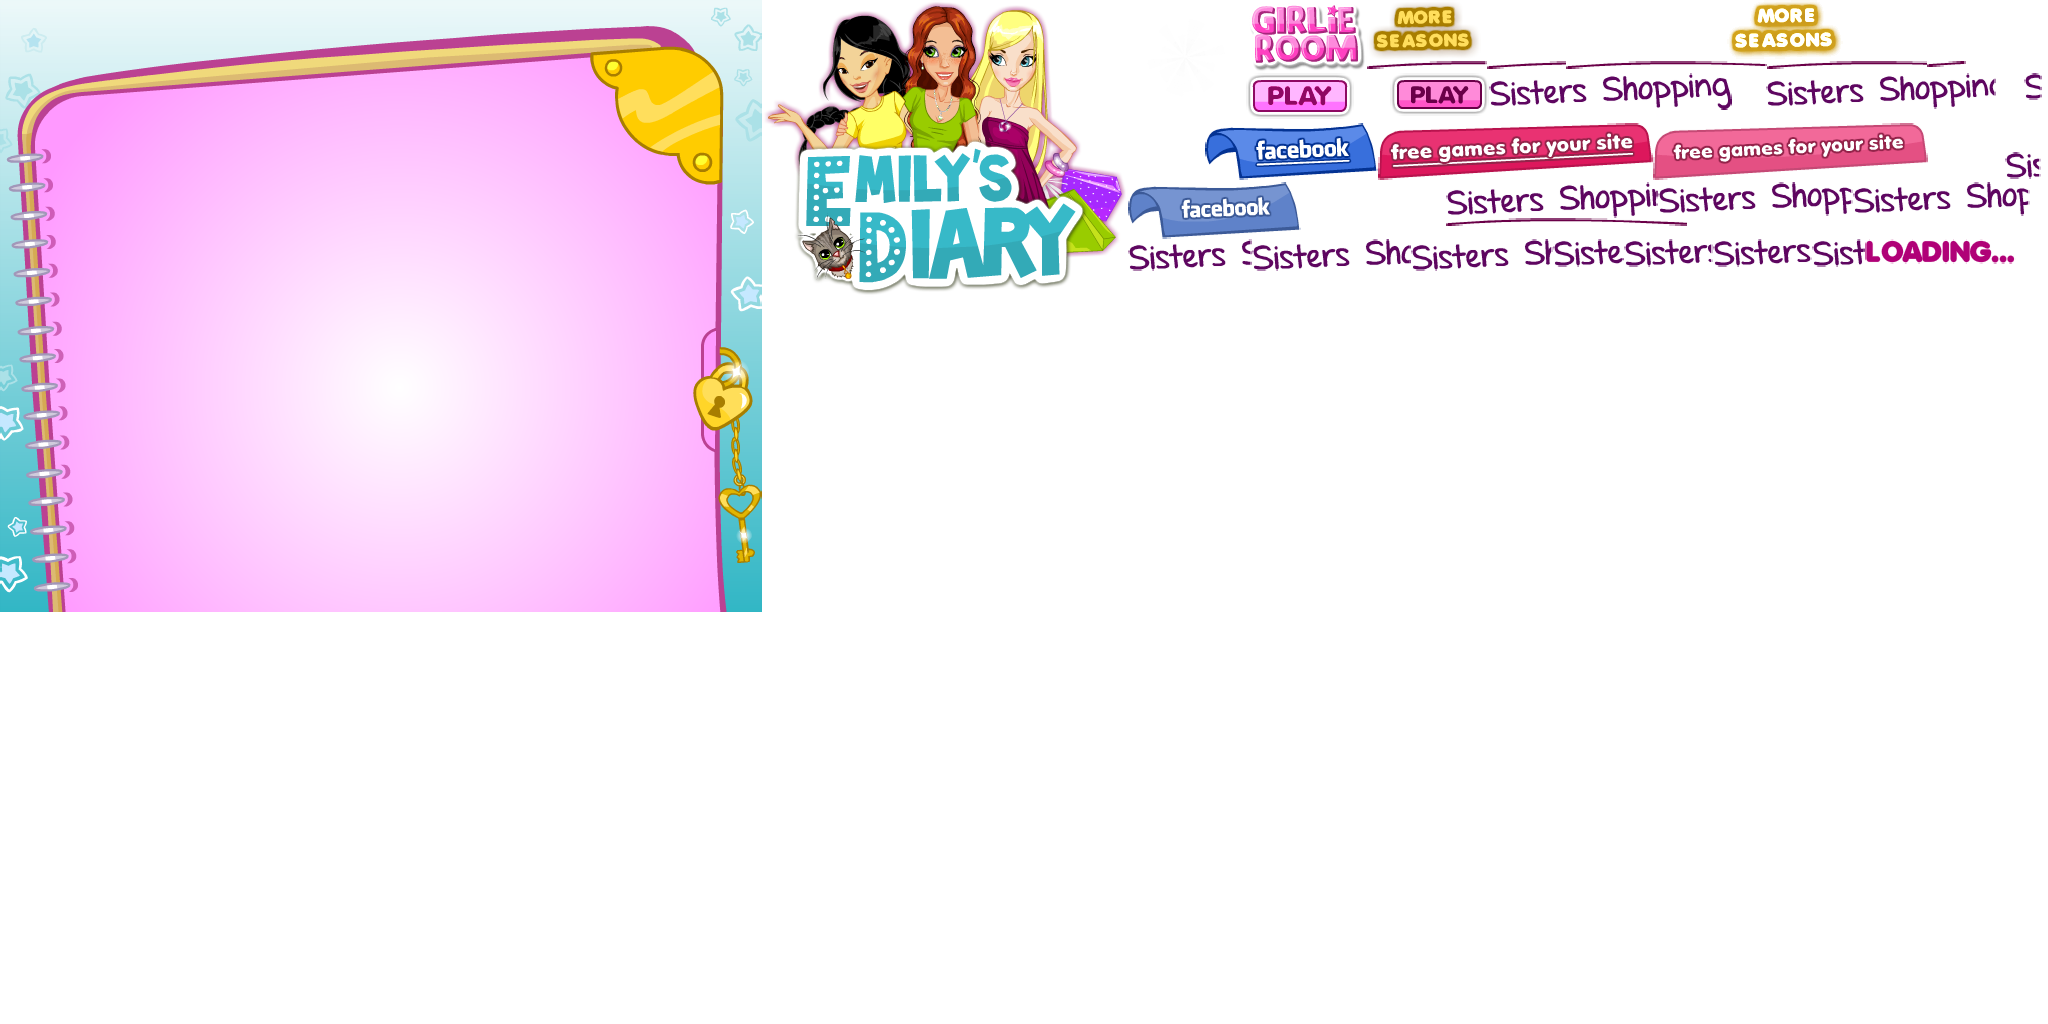
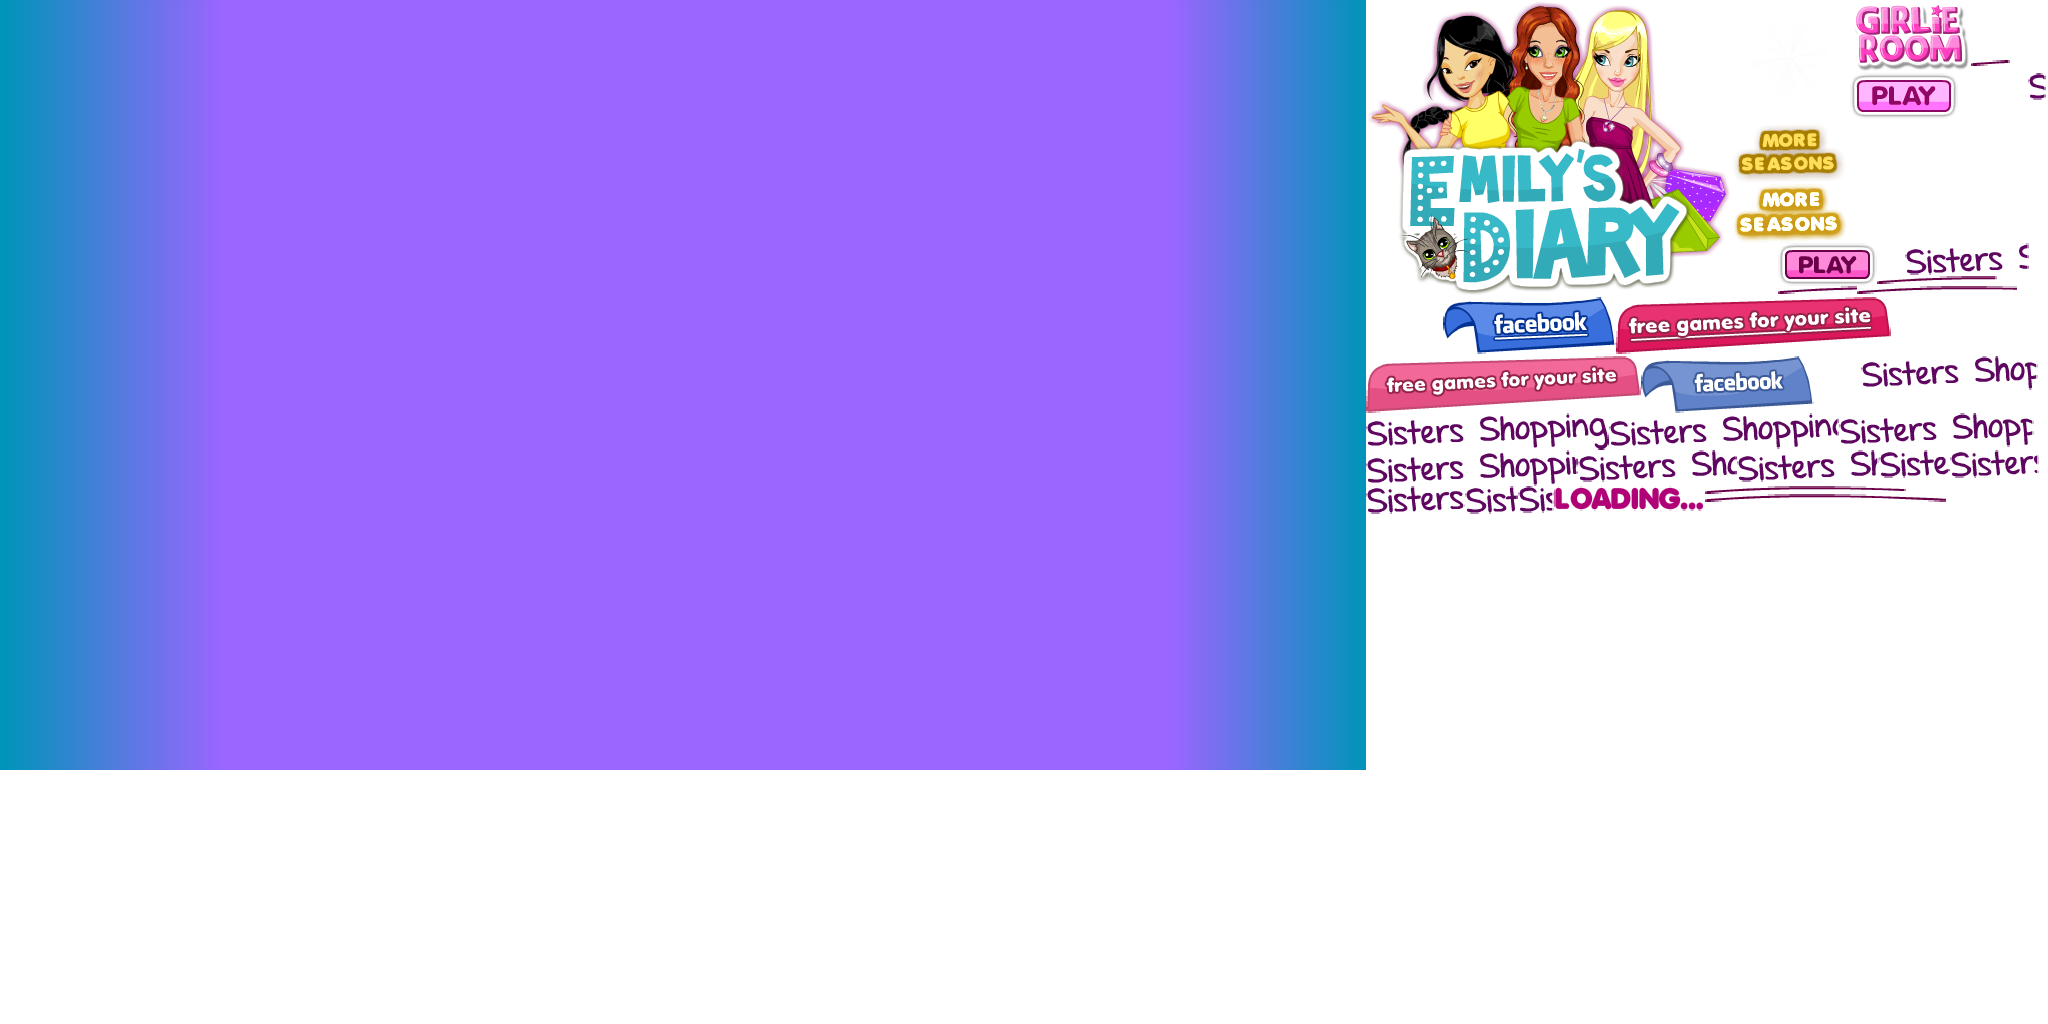
auto

diff --git a/hd/js/dressup.js b/hd/js/dressup.js
@@ -2,8 +2,7 @@
 var __extends = (this && this.__extends) || function (d, b) {
     for (var p in b) if (b.hasOwnProperty(p)) d[p] = b[p];
     function __() { this.constructor = d; }
-    __.prototype = b.prototype;
-    d.prototype = new __();
+    d.prototype = b === null ? Object.create(b) : (__.prototype = b.prototype, new __());
 };
 var fl;
 (function (fl) {
@@ -252,16 +251,17 @@ var fl;
         };
         Bundle.prototype.loadTextures = function () {
             this.textures = {};
-            for (var _i = 0, _a = this.rawData["textures"]; _i < _a.length; _i++) {
-                var textureName = _a[_i];
-                this.textures[textureName] = null;
+            var names = this.rawData["textures"];
+            for (var _i = 0; _i < names.length; _i++) {
+                var name = names[_i];
+                this.textures[name] = null;
             }
-            for (var _b = 0, _c = this.rawData["textures"]; _b < _c.length; _b++) {
-                var textureName = _c[_b];
-                var url = this.getUrl(textureName + Bundle.TEXTURE_EXT);
+            for (var _a = 0; _a < names.length; _a++) {
+                var name = names[_a];
+                var url = this.getUrl(name + Bundle.TEXTURE_EXT);
                 this.verboseLog('loading: ' + url);
                 var loader = new PIXI.ImageLoader(url);
-                loader.on('loaded', this.createTextureLoadedHandler(textureName, loader));
+                loader.on('loaded', this.createTextureLoadedHandler(name, loader));
                 loader.load();
             }
         };
@@ -927,13 +927,35 @@ var fl;
         };
         Button.prototype.setDownState = function () {
             this.content.currentFrame = 1;
+            this.content.updateTransform();
         };
         Button.prototype.setUpState = function () {
             this.content.currentFrame = 0;
+            this.content.updateTransform();
         };
         return Button;
     })();
     fl.Button = Button;
+})(fl || (fl = {}));
+/// <reference path="Core.ts" />
+var fl;
+(function (fl) {
+    var Anchor = (function () {
+        function Anchor(source, sourceProperty, target, targetProperty, multiplier) {
+            if (multiplier === void 0) { multiplier = 1.0; }
+            this._target = target;
+            this._targetProperty = targetProperty;
+            this._source = source;
+            this._sourceProperty = sourceProperty;
+            this._multiplier = multiplier;
+            this._distance = source[sourceProperty] * multiplier - target[targetProperty];
+        }
+        Anchor.prototype.apply = function () {
+            this._target[this._targetProperty] = this._source[this._sourceProperty] * this._multiplier - this._distance;
+        };
+        return Anchor;
+    })();
+    fl.Anchor = Anchor;
 })(fl || (fl = {}));
 /// <reference path="../lib/pixi.d.ts" />
 /// <reference path="FlashObject.ts" />
@@ -946,11 +968,11 @@ var fl;
 /// <reference path="Sprite.ts" />
 /// <reference path="SpriteResource.ts" />
 /// <reference path="Button.ts" />
+/// <reference path="Anchor.ts" />
 var fl;
 (function (fl) {
     applyMixins(fl.Container, fl.FlashObject);
     applyMixins(fl.Sprite, fl.FlashObject);
-    fl.onLabel;
     function applyMixins(derived, base) {
         Object.getOwnPropertyNames(base.prototype).forEach(function (name) {
             derived.prototype[name] = base.prototype[name];
@@ -1002,8 +1024,8 @@ var dressup_game;
     var Config = (function () {
         function Config() {
         }
-        Config.width = 760;
-        Config.height = 610;
+        Config.width = 1024;
+        Config.height = 768;
         Config.links = {
             'small_logo': 'http://www.dressupgames.com/',
             'btn_more_seasons': 'http://www.dressupgames.com/',
@@ -1066,10 +1088,21 @@ var dressup_game;
     var AppScreen = (function () {
         function AppScreen(name, content) {
             this.name = "AppScreen";
+            this._size = new PIXI.Point();
+            this._anchors = [];
+            this._reserv = 170;
             this.name = name;
             this.content = content;
+            this._size.x = dressup_game.Config.width;
+            this._size.y = dressup_game.Config.height;
             this.configureContent(content);
+            this.addAnchors();
         }
+        AppScreen.prototype.addAnchors = function () {
+            var _this = this;
+            this.content.getAllByPrefix("btn")
+                .forEach(function (v, i, a) { return _this.anchorToSide(v); });
+        };
         AppScreen.prototype.getElement = function (name) {
             return this.content.getElement(name);
         };
@@ -1088,6 +1121,74 @@ var dressup_game;
                 if (it instanceof fl.Clip)
                     _this.configureContent(it);
             });
+        };
+        AppScreen.prototype.addAnchor = function (source, sourceProperty, target, targetProperty, multiplier) {
+            if (multiplier === void 0) { multiplier = 1.0; }
+            this._anchors.push(new fl.Anchor(source, sourceProperty, target, targetProperty, multiplier));
+        };
+        AppScreen.prototype.anchorToSide = function (source) {
+            var threshold = 0.25 * dressup_game.Config.width;
+            if (dressup_game.Config.width - source.x < threshold)
+                this.addAnchor(this, "contentRight", source, "x");
+            else if (source.x < threshold)
+                this.addAnchor(this, "contentLeft", source, "x");
+        };
+        Object.defineProperty(AppScreen.prototype, "contentLeft", {
+            get: function () {
+                var left = (-this.content.x) / this.content.scale.x;
+                return Math.max(-this._reserv, left);
+            },
+            enumerable: true,
+            configurable: true
+        });
+        Object.defineProperty(AppScreen.prototype, "contentRight", {
+            get: function () {
+                var right = (this.width - this.content.x) / this.content.scale.x;
+                return Math.min(right, dressup_game.Config.width + this._reserv);
+            },
+            enumerable: true,
+            configurable: true
+        });
+        AppScreen.prototype.validateLayout = function () {
+            var scaleY = this.height / dressup_game.Config.height;
+            var scaleX = this.width / dressup_game.Config.width;
+            var scale = Math.min(scaleX, scaleY);
+            this.content.scale.x = scale;
+            this.content.scale.y = scale;
+            this.content.x = 0.5 * (this.width - dressup_game.Config.width * scale);
+            for (var _i = 0, _a = this._anchors; _i < _a.length; _i++) {
+                var a = _a[_i];
+                a.apply();
+            }
+            this.onLayoutChanged();
+        };
+        AppScreen.prototype.onLayoutChanged = function () { };
+        ;
+        Object.defineProperty(AppScreen.prototype, "width", {
+            get: function () {
+                return this._size.x;
+            },
+            enumerable: true,
+            configurable: true
+        });
+        Object.defineProperty(AppScreen.prototype, "height", {
+            get: function () {
+                return this._size.y;
+            },
+            enumerable: true,
+            configurable: true
+        });
+        Object.defineProperty(AppScreen.prototype, "size", {
+            get: function () {
+                return this._size;
+            },
+            enumerable: true,
+            configurable: true
+        });
+        AppScreen.prototype.resize = function (x, y) {
+            this._size.x = x;
+            this._size.y = y;
+            this.validateLayout();
         };
         return AppScreen;
     })();
@@ -1128,32 +1229,34 @@ var dressup_game;
     var SceneScreen = (function (_super) {
         __extends(SceneScreen, _super);
         function SceneScreen() {
-            var _this = this;
             _super.call(this, 'SceneScreen', fl.Bundle.createClip('scene/scene_screen'));
-            this._backButton = this.createBackButton();
-            this._models = this.content
-                .getAllByPrefix(SceneScreen.MODEL_PREFIX)
-                .map(function (it) { return _this.processModel(it); });
-            this._partButtons = this.content
-                .getAllByPrefix(SceneScreen.PART_BTN_PREFIX)
-                .map(function (it) { return new fl.Button(it, function (btn) { return _this.onPartButtonClick(btn); }); });
+            this._models = [];
+            this._partButtons = [];
+            this._backgrounds = [];
+            this.initBackgrounds();
+            this.initModels();
+            this.initModelButtons();
+            this.initControlButtons();
+        }
+        SceneScreen.prototype.initBackgrounds = function () {
+            var _this = this;
             this._backgrounds = this.content
                 .getAllByPrefix(SceneScreen.BG_PREFIX);
-            this._controls = this.initControlPanel();
-        }
-        SceneScreen.prototype.createBackButton = function () {
-            var _this = this;
-            return new fl.Button(this.content.getElement('btnBackground'), function () {
+            this._bgButton = new fl.Button(this.content.getElement('btn_bg'), function () {
                 _this._backgrounds.forEach(function (it) { return it.stepForward(); });
             });
         };
-        SceneScreen.prototype.processModel = function (model) {
+        SceneScreen.prototype.initModels = function () {
             var _this = this;
-            model.getAllByPrefix(SceneScreen.PART_PREFIX)
-                .forEach(function (it) { return _this.processModelPart(it); });
-            return model;
+            this._models = this.content
+                .getAllByPrefix(SceneScreen.MODEL_PREFIX);
+            for (var _i = 0, _a = this._models; _i < _a.length; _i++) {
+                var model = _a[_i];
+                model.getAllByPrefix(SceneScreen.PART_PREFIX)
+                    .forEach(function (it) { return _this.initModelPart(it); });
+            }
         };
-        SceneScreen.prototype.processModelPart = function (part) {
+        SceneScreen.prototype.initModelPart = function (part) {
             var cfg = this.getPartConfig(part);
             if (cfg.allowHide) {
                 part.interactive = true;
@@ -1161,6 +1264,12 @@ var dressup_game;
                 part.mouseup = function (it) { return part.visible = false; };
             }
             part.visible = part.gotoLabel('default_frame');
+        };
+        SceneScreen.prototype.initModelButtons = function () {
+            var _this = this;
+            this._partButtons = this.content
+                .getAllByPrefix(SceneScreen.PART_BTN_PREFIX)
+                .map(function (it) { return new fl.Button(it, function (btn) { return _this.onPartButtonClick(btn); }); });
         };
         SceneScreen.prototype.onPartButtonClick = function (btn) {
             var _this = this;
@@ -1198,34 +1307,43 @@ var dressup_game;
             else
                 throw new Error("Config not found: " + optionId);
         };
-        SceneScreen.prototype.initControlPanel = function () {
+        SceneScreen.prototype.onLayoutChanged = function () {
+        };
+        SceneScreen.prototype.initControlButtons = function () {
             var _this = this;
-            var controls = this.content.getElement('controls');
-            controls.nestedPlayingType = fl.PlayType.NONE;
-            var saveBtn = controls.tryGetElement("btn_save");
+            var saveBtn = this.content.tryGetElement("btn_save");
             if (saveBtn)
                 saveBtn.visible = false;
-            this.tryCreateButton(controls, "btn_reset", function () {
+            this.tryCreateButton("btn_reset", function () {
                 _this.resetModels();
             });
-            this.tryCreateButton(controls, "btn_photo", function () {
+            this.tryCreateButton("btn_photo", function () {
                 _this.setControlsVisible(false);
-                controls.currentFrame = 1;
+                _this.tryVisibleButton("btn_photo", false);
+                _this.tryVisibleButton("btn_reset", false);
+                _this.tryVisibleButton("btn_back", true);
             });
-            this.tryCreateButton(controls, "btn_back", function () {
+            this.tryCreateButton("btn_back", function () {
                 _this.setControlsVisible(true);
-                controls.currentFrame = 0;
+                _this.tryVisibleButton("btn_photo", true);
+                _this.tryVisibleButton("btn_reset", true);
+                _this.tryVisibleButton("btn_back", false);
             });
-            return controls;
+            this.tryVisibleButton("btn_back", false);
         };
-        SceneScreen.prototype.tryCreateButton = function (container, name, action) {
-            var clip = container.tryGetElement(name);
+        SceneScreen.prototype.tryCreateButton = function (name, action) {
+            var clip = this.content.tryGetElement(name);
             if (clip)
                 new fl.Button(clip, action);
         };
+        SceneScreen.prototype.tryVisibleButton = function (name, value) {
+            var clip = this.content.tryGetElement(name);
+            if (clip)
+                clip.visible = value;
+        };
         SceneScreen.prototype.setControlsVisible = function (value) {
             this._partButtons.forEach(function (it) { return it.content.visible = value; });
-            this._backButton.content.visible = value;
+            this._bgButton.content.visible = value;
         };
         SceneScreen.prototype.resetModels = function () {
             var _this = this;
@@ -1301,9 +1419,7 @@ var dressup_game;
         };
         App.refreshScreenScale = function () {
             if (App._screen) {
-                var appScale = Math.min(App.renderer.width / dressup_game.Config.width, App.renderer.height / dressup_game.Config.height);
-                App._screen.content.scale.x = appScale;
-                App._screen.content.scale.y = appScale;
+                App._screen.resize(App.renderer.width, App.renderer.height);
             }
         };
         App.changeScreen = function (screen) {
